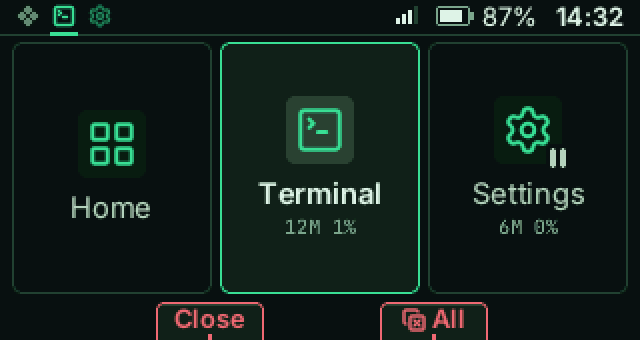
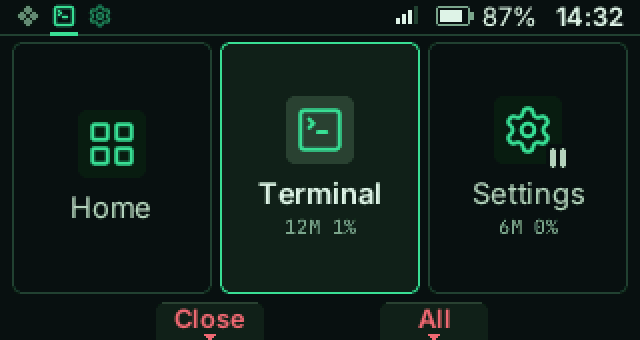
Chips: no outline, a notch at the foot, red ones a red word
The fill is the shape, a step toward border on a light palette so it
still shows. A small triangle at the foot points down at the key. A red
chip is a plain cap with only its word red and no icon; armed, it fills
red.

Changed region(s): [[0.5938, 0.8824, 0.7812, 1.0], [0.25, 0.8824, 0.4062, 0.9118], [0.3125, 0.9706, 0.3438, 1.0]]

diff --git a/crates/gh0st-ui/src/widgets.rs b/crates/gh0st-ui/src/widgets.rs
@@ -528,13 +528,16 @@ fn chip_ink(c: &mut Canvas, t: &Theme, r: Rect, ch: &Chip, ink: Color, icon_ink:
 }
 
 /// One chip: a keycap centred on `cx`, its top at `top`, `w` wide, open at
-/// the foot. In the action bar the foot is the screen's edge, right over the
-/// key. Pressed, it sinks a row and darkens, as a key does.
+/// the foot, with a notch there pointing at the key. In the action bar the
+/// foot is the screen's edge, right over the key. Pressed, it sinks a row
+/// and darkens, as a key does.
 pub fn chip(c: &mut Canvas, t: &Theme, cx: i32, top: i32, ch: &Chip, w: i32) {
-    // A word is never cut: short of room, a chip drops its icon first.
+    let red = matches!(ch.look, Look::Danger | Look::DangerMain | Look::Hold(_));
+    // A word is never cut: short of room, a chip drops its icon first. A
+    // red chip says it in its word alone.
     let tight = chip_ink_w(t, ch) + 2 * t.m.chip_pad_min > w;
     let bare;
-    let ch = if tight && !ch.icon.is_empty() && !ch.word.is_empty() {
+    let ch = if (tight || red) && !ch.icon.is_empty() && !ch.word.is_empty() {
         bare = Chip { icon: "", ..*ch };
         &bare
     } else {
@@ -545,63 +548,60 @@ pub fn chip(c: &mut Canvas, t: &Theme, cx: i32, top: i32, ch: &Chip, w: i32) {
     let sink = i32::from(pressed);
     let r = Rect::new(cx - w / 2, top + sink, w, t.m.chip_h - sink);
     let k = &t.c;
-    // Fill, word, icon, edge, tick. The icon carries the colour; the word
-    // stays plain, so a row of chips reads at a glance.
-    let (fill, ink, icon_ink, edge, tick) = match ch.look {
-        Look::Normal => (k.surface, k.fg, k.accent, Some(k.border), k.muted),
-        Look::Main => (k.accent, k.accent_fg, k.accent_fg, None, k.accent_fg),
-        Look::On => (mix(k.bg, k.accent, 80), k.accent, k.accent, None, k.accent),
-        Look::Danger | Look::Hold(_) => {
-            (k.surface, k.critical, k.critical, Some(k.critical), k.critical)
-        }
-        Look::DangerMain => (k.critical, k.bg, k.bg, None, k.bg),
-        Look::Disabled => (k.bg, k.disabled(), k.disabled(), Some(k.border), k.border),
-        Look::Pressed => {
-            // Darker than at rest on any palette.
-            let down = if light { mix(k.surface, k.fg, 25) } else { mix(k.surface, k.bg, 150) };
-            (down, k.fg, k.accent, Some(k.border), k.muted)
-        }
-        Look::Busy => (k.surface, k.muted, k.muted, Some(k.border), k.muted),
+    // No outline: the fill is the shape. On a light palette `surface` is
+    // too near `bg`, so the cap takes a step toward `border`.
+    let cap = if light { mix(k.surface, k.border, 110) } else { k.surface };
+    let down = if light { mix(cap, k.fg, 25) } else { mix(k.surface, k.bg, 150) };
+    // Fill, word, icon, notch. The icon carries the colour; the word stays
+    // plain, but for red chips, whose word alone is red.
+    let (fill, ink, icon_ink, notch) = match ch.look {
+        Look::Normal => (cap, k.fg, k.accent, k.muted),
+        Look::Main => (k.accent, k.accent_fg, k.accent_fg, k.accent_fg),
+        Look::On => (mix(k.bg, k.accent, 80), k.accent, k.accent, k.accent),
+        Look::Danger | Look::Hold(_) => (cap, k.critical, k.critical, k.critical),
+        Look::DangerMain => (k.critical, k.bg, k.bg, k.bg),
+        Look::Disabled => (mix(k.bg, cap, 120), k.disabled(), k.disabled(), k.disabled()),
+        Look::Pressed => (down, k.fg, k.accent, k.muted),
+        Look::Busy => (cap, k.muted, k.muted, k.muted),
     };
     // Round on top, square at the foot: the shape runs on past the foot and
-    // the clip cuts it there, edge and all.
+    // the clip cuts it there.
     let old = c.clip();
     c.set_clip(r.intersect(&old));
     let shape = Rect::new(r.x, r.y, r.w, r.h + t.m.chip_r);
     c.round_rect(shape, t.m.chip_r, fill);
-    if let Some(e) = edge {
-        c.stroke_round_rect(shape, t.m.chip_r, e);
-    }
-    // A keycap's lit top: one lighter row under the edge. A pressed key
-    // has none.
+    // A keycap's lit top. A pressed key has none.
     if !pressed && ch.look != Look::Disabled {
-        let y = r.y + i32::from(edge.is_some());
-        // Lighter than the fill on any palette: toward fg on a dark one,
-        // toward white on a light one.
         let lit = if light {
             mix(fill, crate::color::rgb(255, 255, 255), 160)
         } else {
             mix(fill, k.fg, 40)
         };
-        c.hline(r.x + t.m.chip_r, r.right() - t.m.chip_r, y, lit);
+        c.hline(r.x + t.m.chip_r, r.right() - t.m.chip_r, r.y, lit);
     }
     c.set_clip(old);
-    // The tick points at the key: centred on it, at the screen's edge.
-    let tick_r = Rect::new(cx - 1, r.bottom() - TICK_H, 2, TICK_H);
-    c.fill(tick_r, tick);
+    notch_at(c, cx, r.bottom(), notch);
     chip_ink(c, t, r, ch, ink, icon_ink);
     if let Look::Hold(pc) = ch.look {
         let old = c.clip();
         let part = Rect::new(r.x, r.y, r.w * pc.min(100) as i32 / 100, r.h);
         c.set_clip(part.intersect(&old));
         c.round_rect(shape, t.m.chip_r, k.critical);
-        c.fill(tick_r, k.bg);
+        notch_at(c, cx, r.bottom(), k.bg);
         chip_ink(c, t, r, ch, k.bg, k.bg);
         c.set_clip(old);
     }
 }
 
-/// The tick at a chip's foot, over the centre of its key.
+/// A small triangle at the foot, pointing down at the key's centre.
+fn notch_at(c: &mut Canvas, cx: i32, foot: i32, color: Color) {
+    for i in 0..TICK_H {
+        let w = 2 * (TICK_H - i);
+        c.fill(Rect::new(cx - w / 2, foot - TICK_H + i, w, 1), color);
+    }
+}
+
+/// The notch at a chip's foot, over the centre of its key.
 const TICK_H: i32 = 3;
 
 /// The action bar: a tab over each of keys 4 to 8 that has one, standing on

diff --git a/docs/design.md b/docs/design.md
@@ -167,21 +167,21 @@ needs saying, a dialog or message names them in key pills.
 
 **What a chip is.** A keycap standing on the screen's bottom edge: 19 px
 tall and as wide as its key (54 px), so the bar reads as a row of keys over
-the real ones. Its top corners are rounded 3 px; it is edged on its top and
-sides, with a lighter row under the top edge, and square and open at the
-foot. A short tick at its foot sits over the centre of its key. Inside: a
-12 px icon in the accent colour and one word in Label style, centred. A word
-is never cut: with less than 3 px each side, a chip drops its icon. Four
-letters or so keep it.
+the real ones. No outline: its fill is its shape, with a lighter row along
+its top and its top corners rounded 3 px. At its foot, square on the screen's
+edge, a small notch points down at its key. Inside: a 12 px icon in the
+accent colour and one word in Label style, centred. A word is never cut:
+with less than 3 px each side, a chip drops its icon.
 
 | State | Looks | For |
 |---|---|---|
-| normal | `surface` with a `border` edge, accent icon | most actions |
-| on | a pale accent fill | a toggle that is on: Flash |
-| danger | a `critical` edge and word | Forget, Stop, Close |
+| normal | a `surface` cap, accent icon, plain word | most actions |
+| on | a pale accent cap | a toggle that is on: Flash |
+| danger | the word alone, in `critical`; no icon | Forget, Stop, Close |
 | danger, held | fills `critical` left to right | Erase: hold it 0.7 s |
-| main | `accent` fill | an action that is the page's main one but not on Enter |
-| disabled | no fill, `disabled` word | can't be used now; the key does nothing |
+| armed | a `critical` cap | pressed once, press again |
+| main | an `accent` cap | an action that is the page's main one but not on Enter |
+| disabled | faint cap and word | can't be used now; the key does nothing |
 | pressed | sinks a row, darker, no lit top | while its key is down |
 | busy | the word and "…" | working: no second press |
 
